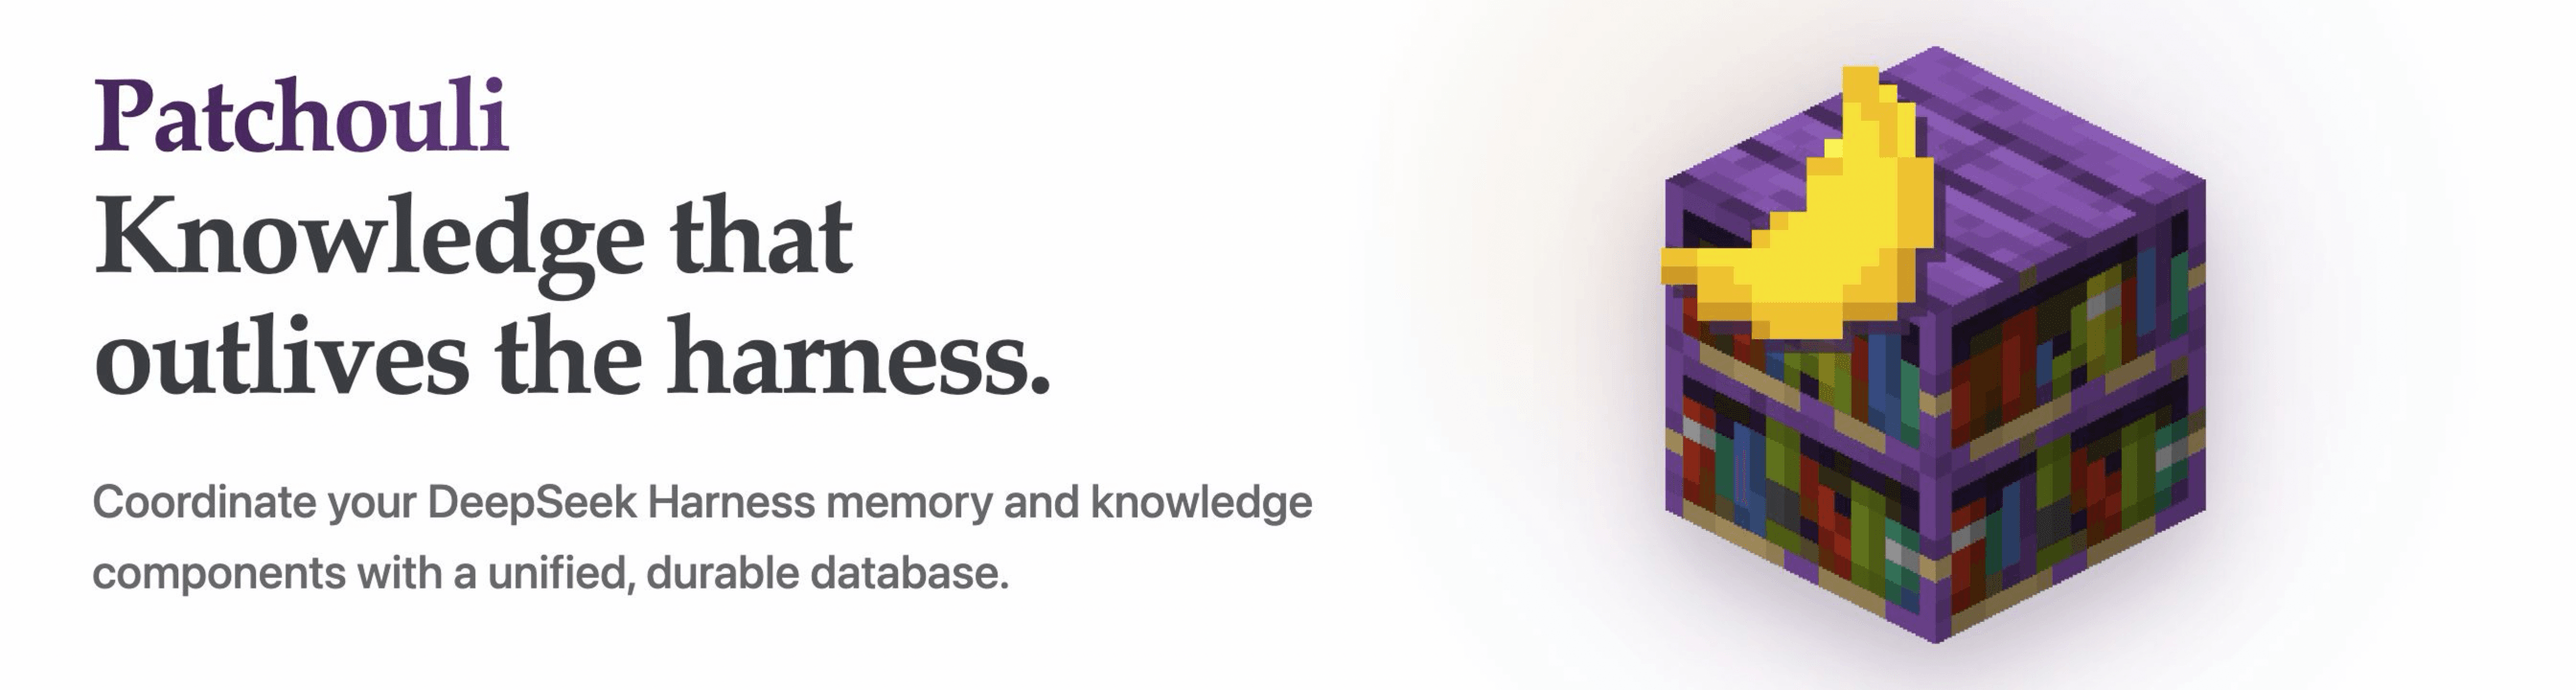
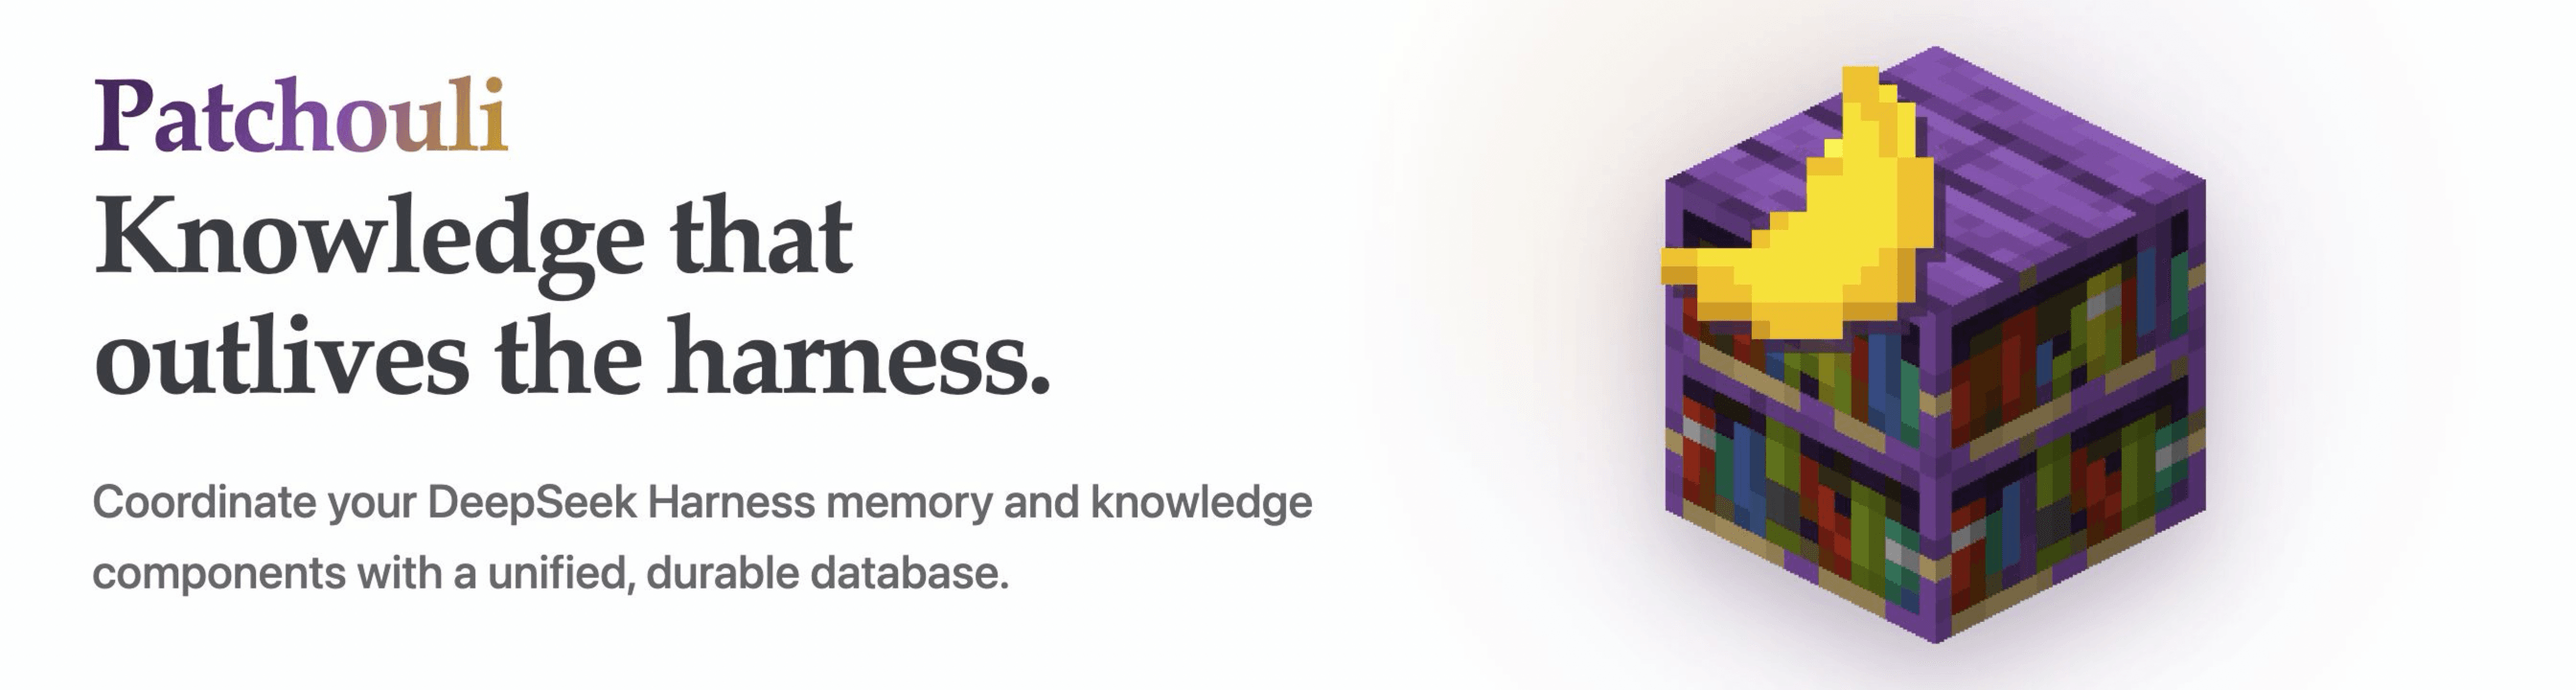
docs(readme): refine repository landing page
Standardize the repository landing page around a concise English-first bilingual structure and keep documentation, CI, license, Node.js, and Rust badges in the first-screen block.\n\nRemove status, design, and progress-oriented sections so the README remains a focused plugin overview while detailed guidance stays on the documentation site.\n\nRestore the purple-to-gold Patchouli title gradient and update the asymmetrically cropped, high-resolution English and Chinese banner assets without clipping the icon glow.

Changed region(s): [[0.0625, 0.1222, 0.2188, 0.2444]]

diff --git a/README.md b/README.md
@@ -3,59 +3,37 @@
 
   <h1>Patchouli</h1>
   <p>
-    <strong>Knowledge and memory middleware for AI harnesses.</strong>
+    <strong>A local memory and knowledge hub for DeepSeek Harness.</strong>
     <br />
-    Connect applications, memory plugins, and durable knowledge storage through one common service.
+    Integrates heterogeneous Agent data augmentation while keeping data and algorithms decoupled.
   </p>
 
-  [![CI](https://github.com/memorax-agent/dsh-patchouli/actions/workflows/ci.yml/badge.svg)](https://github.com/memorax-agent/dsh-patchouli/actions/workflows/ci.yml)
-  [![License: MIT](https://img.shields.io/badge/License-MIT-2f6f4e.svg)](LICENSE)
-  [![Node.js](https://img.shields.io/badge/Node.js-%5E22.19.0%20%7C%7C%20%3E%3D24-2f6f4e?logo=nodedotjs&logoColor=white)](package.json)
-  [![Rust](https://img.shields.io/badge/Rust-stable-b55b3d?logo=rust&logoColor=white)](Cargo.toml)
+  **English** · [简体中文](README.zh-CN.md)
 
-  **English** / [简体中文](README.zh-CN.md)
+  [![Documentation](https://img.shields.io/badge/docs-read-75439a?logo=readthedocs&logoColor=white)](https://memorax-agent.github.io/dsh-patchouli/)
+  [![CI](https://github.com/memorax-agent/dsh-patchouli/actions/workflows/ci.yml/badge.svg)](https://github.com/memorax-agent/dsh-patchouli/actions/workflows/ci.yml)
+  [![License: MIT](https://img.shields.io/badge/license-MIT-2f6f4e.svg)](LICENSE)
+  [![Node.js](https://img.shields.io/badge/Node.js-%5E22.19.0%20%7C%7C%20%3E%3D24-2f6f4e?logo=nodedotjs&logoColor=white)](https://memorax-agent.github.io/dsh-patchouli/installation)
+  [![Rust](https://img.shields.io/badge/Rust-stable-b55b3d?logo=rust&logoColor=white)](https://memorax-agent.github.io/dsh-patchouli/installation)
 </div>
 
 ## Overview
 
-Patchouli is a knowledge and memory middleware layer. Applications call a
-stable `update` / `retrieve` / `subscribe` service, registered plugins provide
-the memory semantics, and an independent Rust backend provides transactional
-storage.
+Patchouli exposes one `update` / `retrieve` / `subscribe` service inside
+[DeepSeek Harness](https://github.com/deepseek-ai/deepseek-harness). Connectors
+provide trusted runtime data, memory and knowledge plugins own their algorithms,
+and an independent Rust backend provides durable transactional storage.
 
-[DeepSeek Harness](https://github.com/deepseek-ai/deepseek-harness) is the first
-supported integration. The database backend remains harness-neutral.
+DeepSeek Harness is the first supported integration. The database backend
+remains harness-neutral.
 
-## Capabilities
+## Features
 
-- Common DSH Memory Service with plugin routing, aggregation, and provenance.
-- Agent Loop hooks and model tools through a dedicated connector plugin.
+- Common Memory Service with plugin-owned routing, aggregation, and provenance.
+- Agent Loop connector with configurable hooks and model tools.
 - Pluggable local or remote memory and knowledge implementations.
 - Managed image and workspace-file ingestion as typed Artifacts.
-- Durable cursors and reactive subscriptions.
-- Transactional Rust backend with SQLite, remote providers, conflict handling,
-  change streams, and lifecycle recovery.
-
-## Documentation
-
-Read the [Patchouli documentation](https://memorax-agent.github.io/dsh-patchouli/)
-for installation, DSH integration, architecture, consistency configuration,
-the knowledge model, and backend operation.
-
-The source pages live in [`docs/`](docs/). The normative JSON-RPC contract lives
-in [`packages/protocol/SPEC.md`](packages/protocol/SPEC.md).
-
-## Status
-
-The Memory Service, Agent Loop connector, Artifact Ingestor, transactional Rust
-backend, SQLite and remote providers, conflict handling, change streams, and
-lifecycle recovery are implemented. Session and Workspace Indexers currently
-define package boundaries; a general-purpose Knowledge extraction plugin is not
-included yet.
-
-## License
-
-Licensed under the [MIT License](LICENSE).
+- Durable subscriptions and a transactional Rust backend with SQLite and remote providers.
 
 ## What does the plugin's name mean???
 

diff --git a/README.zh-CN.md b/README.zh-CN.md
@@ -3,51 +3,35 @@
 
   <h1>Patchouli</h1>
   <p>
-    <strong>面向 AI Harness 的知识与记忆中台。</strong>
+    <strong>面向 DeepSeek Harness 的本地记忆和知识中枢。</strong>
     <br />
-    通过统一服务连接应用、记忆插件与持久化知识存储。
+    以数据、算法解耦的形式，对异构的 Agent 数据增强进行整合。
   </p>
 
-  [![CI](https://github.com/memorax-agent/dsh-patchouli/actions/workflows/ci.yml/badge.svg)](https://github.com/memorax-agent/dsh-patchouli/actions/workflows/ci.yml)
-  [![License: MIT](https://img.shields.io/badge/License-MIT-2f6f4e.svg)](LICENSE)
-  [![Node.js](https://img.shields.io/badge/Node.js-%5E22.19.0%20%7C%7C%20%3E%3D24-2f6f4e?logo=nodedotjs&logoColor=white)](package.json)
-  [![Rust](https://img.shields.io/badge/Rust-stable-b55b3d?logo=rust&logoColor=white)](Cargo.toml)
+  [English](README.md) · **简体中文**
 
-  [English](README.md) / **简体中文**
+  [![Documentation](https://img.shields.io/badge/docs-read-75439a?logo=readthedocs&logoColor=white)](https://memorax-agent.github.io/dsh-patchouli/)
+  [![CI](https://github.com/memorax-agent/dsh-patchouli/actions/workflows/ci.yml/badge.svg)](https://github.com/memorax-agent/dsh-patchouli/actions/workflows/ci.yml)
+  [![License: MIT](https://img.shields.io/badge/license-MIT-2f6f4e.svg)](LICENSE)
+  [![Node.js](https://img.shields.io/badge/Node.js-%5E22.19.0%20%7C%7C%20%3E%3D24-2f6f4e?logo=nodedotjs&logoColor=white)](https://memorax-agent.github.io/dsh-patchouli/installation)
+  [![Rust](https://img.shields.io/badge/Rust-stable-b55b3d?logo=rust&logoColor=white)](https://memorax-agent.github.io/dsh-patchouli/installation)
 </div>
 
 ## 概述
 
-Patchouli 是一个知识与记忆中台。应用通过稳定的 `update`、`retrieve`、`subscribe` 服务发起调用，注册插件提供具体记忆语义，独立的 Rust 后端负责事务化存储。
+Patchouli 在 [DeepSeek Harness](https://github.com/deepseek-ai/deepseek-harness)
+内提供统一的 `update`、`retrieve`、`subscribe` 服务。连接器负责提供可信的运行时数据，
+记忆和知识插件负责各自的算法，独立的 Rust 后端负责持久化事务存储。
 
-[DeepSeek Harness](https://github.com/deepseek-ai/deepseek-harness) 是目前首个受支持的集成，数据库后端本身不依赖任何 Harness。
+DeepSeek Harness 是目前首个受支持的集成，数据库后端本身不依赖任何 Harness。
 
 ## 核心能力
 
-- 提供带插件路由、聚合和来源标记的 DSH Memory Service。
-- 通过独立连接器插件接入 Agent Loop Hook 与模型 Tool。
-- 支持本地或远程记忆/知识插件。
+- 提供由插件控制路由、聚合和来源标记的统一 Memory Service。
+- 通过可配置 Hook 和模型 Tool 接入 Agent Loop。
+- 支持本地或远程记忆与知识实现。
 - 将图片和工作区文件摄取为类型化 Artifact。
-- 提供持久化 cursor 与响应式订阅。
-- 提供支持 SQLite、远程 Provider、冲突处理、变更流和故障恢复的事务化 Rust 后端。
-
-## 详细文档
-
-安装、DSH 集成、架构、一致性配置、知识模型和后端运维说明都在
-[Patchouli 文档站](https://memorax-agent.github.io/dsh-patchouli/)中。
-
-文档源码位于 [`docs/`](docs/)，规范性的 JSON-RPC 契约位于
-[`packages/protocol/SPEC.md`](packages/protocol/SPEC.md)。
-
-## 当前状态
-
-Memory Service、Agent Loop 连接器、Artifact Ingestor、事务化 Rust 后端、
-SQLite 与远程 Provider、冲突处理、变更流和生命周期恢复均已实现。Session
-与 Workspace Indexer 当前只完成包边界，尚未提供通用 Knowledge 抽取插件。
-
-## 许可
-
-项目采用 [MIT License](LICENSE)。
+- 提供持久化订阅，以及支持 SQLite 和远程 Provider 的事务化 Rust 后端。
 
 ## 这个插件的名字是什么意思？？？
 
